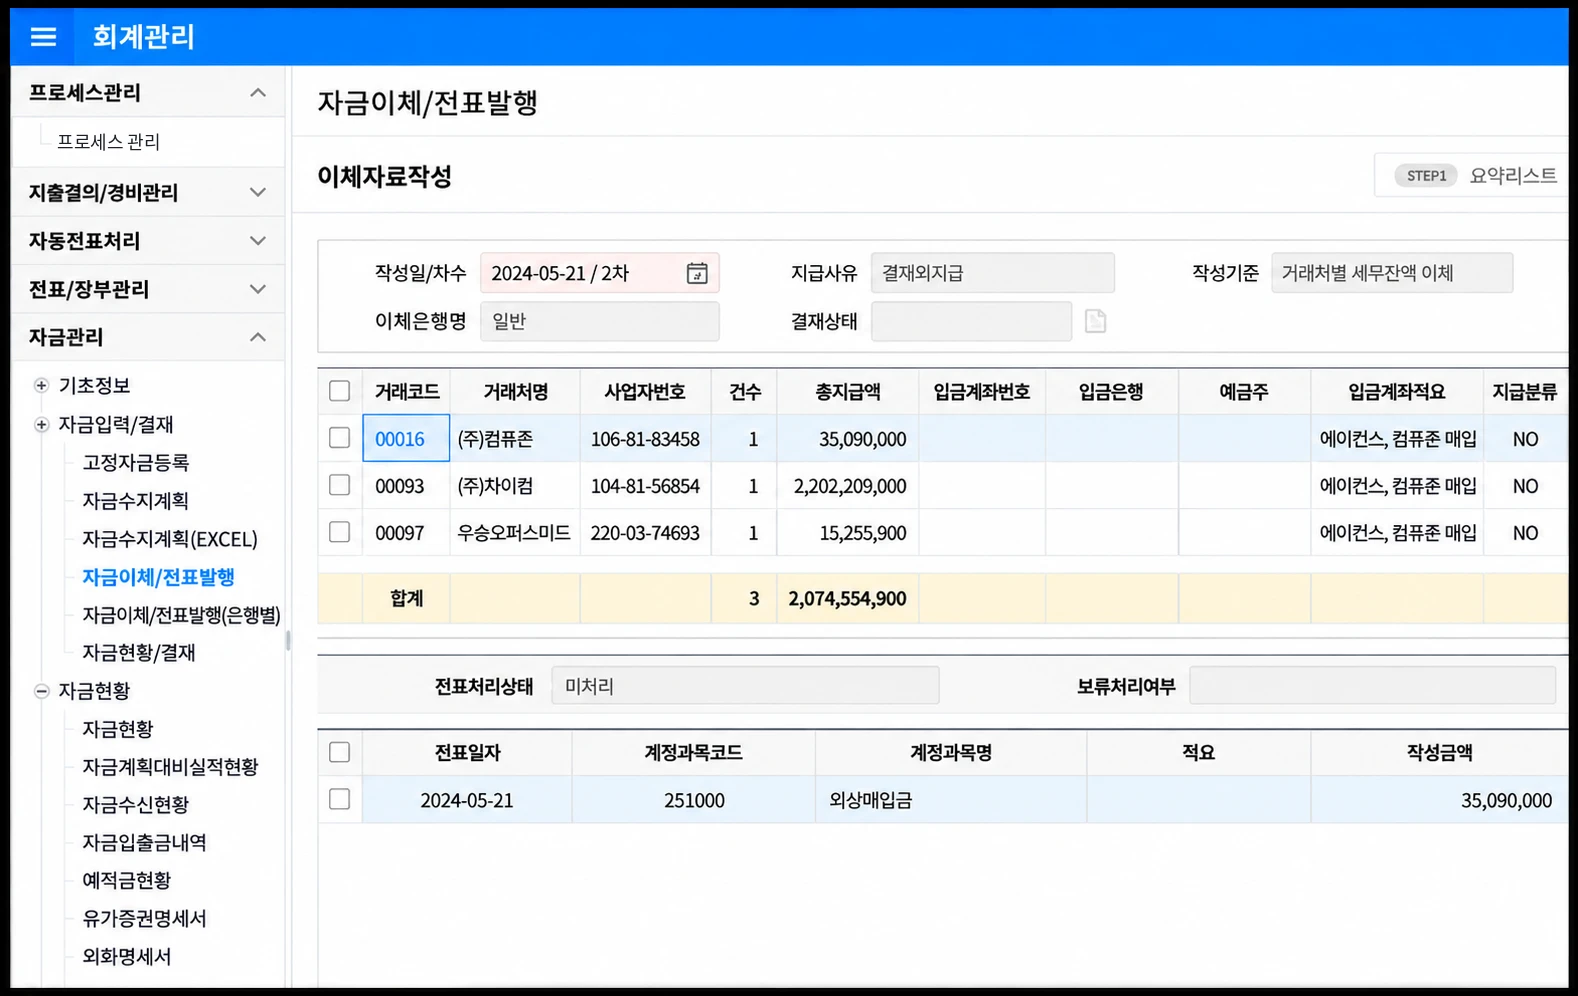
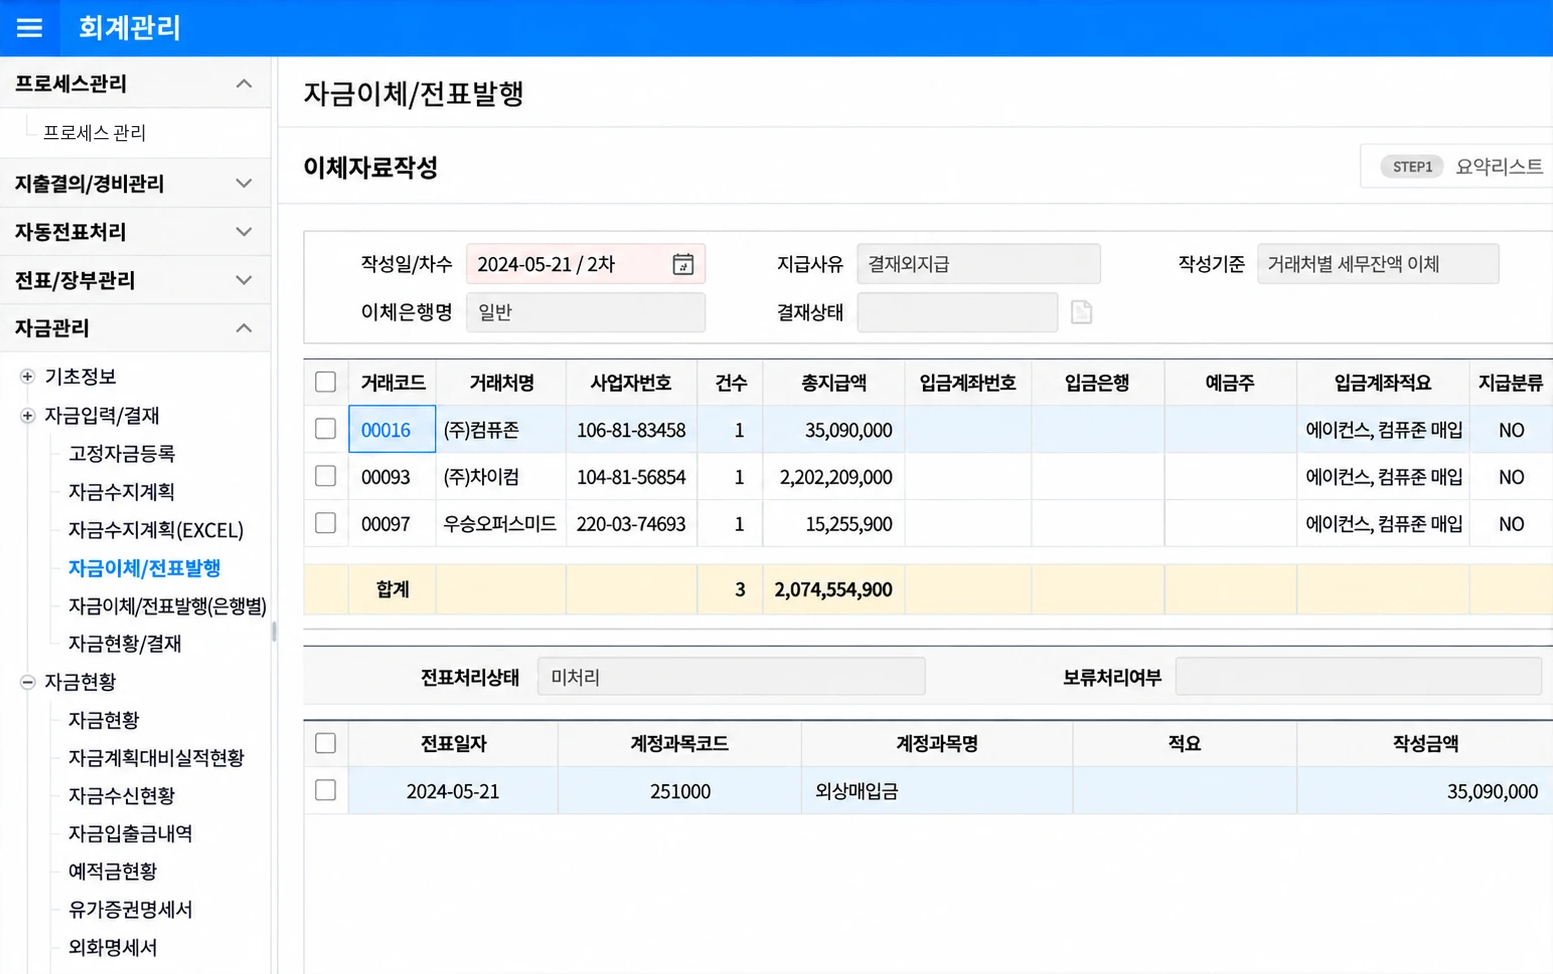
Trim the black frame baked into the 자금이체/전표발행 screenshot on 회계관리
The supplied image carried an 8-10px black border and a faint edge shadow; both are cropped off
(1578x996 -> 1553x974, saved as lossless WebP) and the version is bumped so browsers refetch it.

Claude-Session: https://claude.ai/code/session_01SPawHb8dbXAtWqwsG92Z1g

diff --git a/subpages/product/amaranth10/overview.html b/subpages/product/amaranth10/overview.html
@@ -127,7 +127,7 @@
                         더존 금융서비스입니다.
                     </p>
                 <div class="tag-row sb-area-tags" aria-label="금융서비스 연동 관련 키워드"><span class="tag">#금융서비스연동(CMS)</span></div></div>
-                <div class="img sb-feature-visual"><figure class="sb-unframed-screen" data-screen-presentation="unframed" style="--sb-screen-ratio:1.584337;--sb-preview-ratio:1.584337;--sb-preview-height:516px;--sb-preview-padding:0px" data-screen-content="complete" data-native-screen="source-078" data-native-review-id="113" data-quality-screen="user-supplied"><a class="sb-screen-zoom" href="../../../assets/subpages/user-supplied/amaranth-financial-services.webp?v=20261028-1" aria-label="Amaranth 10 금융서비스 연동 제품 화면 크게 보기"><img class="sb-flat-screen" loading="lazy" src="../../../assets/subpages/user-supplied/amaranth-financial-services.webp?v=20261028-1" alt="Amaranth 10 금융서비스 연동 제품 화면" width="1578" height="996" data-quality-id="source-078"></a></figure></div>
+                <div class="img sb-feature-visual"><figure class="sb-unframed-screen" data-screen-presentation="unframed" style="--sb-screen-ratio:1.594456;--sb-preview-ratio:1.594456;--sb-preview-height:516px;--sb-preview-padding:0px" data-screen-content="complete" data-native-screen="source-078" data-native-review-id="113" data-quality-screen="user-supplied"><a class="sb-screen-zoom" href="../../../assets/subpages/user-supplied/amaranth-financial-services.webp?v=20261028-2" aria-label="Amaranth 10 금융서비스 연동 제품 화면 크게 보기"><img class="sb-flat-screen" loading="lazy" src="../../../assets/subpages/user-supplied/amaranth-financial-services.webp?v=20261028-2" alt="Amaranth 10 금융서비스 연동 제품 화면" width="1553" height="974" data-quality-id="source-078"></a></figure></div>
             </div>
             <div class="overview08 sb-feature sb-design-row sb-centered-feature sb-zigzag-feature" data-layout="visual-left" data-screen-layout="visual-left">
                 <div class="cont_txt sb-feature-copy">
@@ -160,7 +160,7 @@
                         편성기능을 지원합니다.
                     </p>
                 <div class="tag-row sb-area-tags" aria-label="예산관리 관련 키워드"><span class="tag">#지출결의</span></div></div>
-                <div class="img sb-feature-visual"><figure class="sb-unframed-screen" data-screen-presentation="unframed" style="--sb-screen-ratio:1.590361;--sb-preview-ratio:1.590361;--sb-preview-height:516px;--sb-preview-padding:0px;--sb-native-width:660px" data-screen-content="complete" data-native-screen="source-081" data-native-review-id="115" data-quality-screen="verified-native"><a class="sb-screen-zoom" href="../../../assets/subpages/native-screens/budget.png?v=20261028-frameless-1" aria-label="Amaranth 10 예산관리 제품 화면 크게 보기"><img class="sb-flat-screen" loading="lazy" src="../../../assets/subpages/native-screens/budget.png?v=20261028-frameless-1" alt="Amaranth 10 예산관리 제품 화면" width="660" height="415" data-quality-source="assets/subpages/native-screens/budget.png" data-quality-id="source-081"></a></figure></div>
+                <div class="img sb-feature-visual"><figure class="sb-unframed-screen" data-screen-presentation="unframed" style="--sb-screen-ratio:1.590361;--sb-preview-ratio:1.590361;--sb-preview-height:516px;--sb-preview-padding:0px;--sb-native-width:660px" data-screen-content="complete" data-native-screen="source-081" data-native-review-id="115" data-quality-screen="verified-native"><a class="sb-screen-zoom" href="../../../assets/subpages/native-screens/budget.png" aria-label="Amaranth 10 예산관리 제품 화면 크게 보기"><img class="sb-flat-screen" loading="lazy" src="../../../assets/subpages/native-screens/budget.png" alt="Amaranth 10 예산관리 제품 화면" width="660" height="415" data-quality-source="assets/subpages/native-screens/budget.png" data-quality-id="source-081"></a></figure></div>
             </div>
         </div>
 	</div></main><footer><div class="footer-top"><div><a class="footer-brand" href="../../../index.html"><img src="../../../assets/ax-logo.png" alt="AX and More"><img src="../../../assets/logo.png" alt="DOUZONE 아이원소프트뱅크"></a><p>ERP · 그룹웨어 · 시스템 연동 · 맞춤 개발까지<br>비즈니스 환경에 최적화된 솔루션을 제공합니다.</p></div><div class="socials"><a href="https://cafe.naver.com/ionesoftbank" target="_blank" rel="noopener noreferrer"><img src="../../../assets/social-cafe.png" alt="카페"></a><a href="https://www.instagram.com/ione130501" target="_blank" rel="noopener noreferrer"><img src="../../../assets/social-instagram.png" alt="인스타그램"></a><a href="https://blog.naver.com/zhogksgjqm" target="_blank" rel="noopener noreferrer"><img src="../../../assets/social-blog.png" alt="블로그"></a><a href="http://pf.kakao.com/_xnFVzK" target="_blank" rel="noopener noreferrer"><img src="../../../assets/social-kakao.png" alt="카카오톡"></a><a href="https://youtube.com/@IONEsoftBK_official" target="_blank" rel="noopener noreferrer"><img src="../../../assets/social-youtube.png" alt="유튜브"></a></div></div><nav><button type="button" data-modal="privacy">개인정보 처리방침</button><button type="button" data-modal="terms">이용약관</button><a href="../../../subpages/company/location.html">오시는 길</a></nav><p>아이원소프트뱅크㈜ 대표 : 황명희 · 사업자등록번호 : 113-86-70956 · 통신판매신고번호 : 2017-서울구로-0617<br>주소 : 서울특별시 구로구 디지털로 285 에이스트윈타워 1차 405호<br>구매상담문의 : 1877-0256 · 고객센터 : 1877-1859 · iCUBE / G20 : 1877-0840 · 블루멤버십 : 1600-4208 · 테스트 계정 신청 : 070-4497-3388<br><br>COPYRIGHT © 2026 아이원소프트뱅크㈜. All rights reserved.</p></footer><section class="legal-modal" id="privacy-modal" aria-hidden="true" role="dialog" aria-modal="true" aria-labelledby="privacy-title"><div class="legal-dialog"><button class="modal-close" type="button" aria-label="닫기">×</button><h2 id="privacy-title">개인정보 처리방침</h2><div class="legal-scroll">문서를 불러오는 중입니다.</div></div></section><section class="legal-modal" id="terms-modal" aria-hidden="true" role="dialog" aria-modal="true" aria-labelledby="terms-title"><div class="legal-dialog"><button class="modal-close" type="button" aria-label="닫기">×</button><h2 id="terms-title">이용약관</h2><div class="legal-scroll">문서를 불러오는 중입니다.</div></div></section><dialog class="sb-preview-dialog"><p>공개 페이지 기반 미리보기입니다. 이 기능은 기존 사이트에서 이용할 수 있습니다.</p><a href="https://www.duzon119.co.kr/product/amaranth10/overview.asp">기존 페이지 열기 ↗</a><button type="button">닫기</button></dialog></div><script src="../../../app.js?v=20261028-1" defer=""></script></body></html>

diff --git a/subpages/product/nonprofit/intro.html b/subpages/product/nonprofit/intro.html
@@ -640,7 +640,7 @@
                         편성기능을 지원합니다.
                     </p>
                 <div class="tag-row sb-area-tags" aria-label="예산관리 관련 키워드"><span class="tag">#지출결의</span></div></div>
-                <div class="img sb-feature-visual"><figure class="sb-unframed-screen" data-screen-presentation="unframed" style="--sb-screen-ratio:1.590361;--sb-preview-ratio:1.590361;--sb-preview-height:516px;--sb-preview-padding:0px;--sb-native-width:660px" data-screen-content="complete" data-native-screen="source-081" data-native-review-id="94" data-quality-screen="verified-native"><a class="sb-screen-zoom" href="../../../assets/subpages/native-screens/budget.png?v=20261028-frameless-1" aria-label="Amaranth 10 예산관리 제품 화면 크게 보기"><img class="sb-flat-screen" loading="lazy" src="../../../assets/subpages/native-screens/budget.png?v=20261028-frameless-1" alt="Amaranth 10 예산관리 제품 화면" width="660" height="415" data-quality-source="assets/subpages/native-screens/budget.png" data-quality-id="source-081"></a></figure></div>
+                <div class="img sb-feature-visual"><figure class="sb-unframed-screen" data-screen-presentation="unframed" style="--sb-screen-ratio:1.590361;--sb-preview-ratio:1.590361;--sb-preview-height:516px;--sb-preview-padding:0px;--sb-native-width:660px" data-screen-content="complete" data-native-screen="source-081" data-native-review-id="94" data-quality-screen="verified-native"><a class="sb-screen-zoom" href="../../../assets/subpages/native-screens/budget.png" aria-label="Amaranth 10 예산관리 제품 화면 크게 보기"><img class="sb-flat-screen" loading="lazy" src="../../../assets/subpages/native-screens/budget.png" alt="Amaranth 10 예산관리 제품 화면" width="660" height="415" data-quality-source="assets/subpages/native-screens/budget.png" data-quality-id="source-081"></a></figure></div>
             </div>
         </div></section><section data-np-page="hr" hidden=""><div class="contWrap hr amaranth10 view-full">
             <div class="hr01 sb-feature sb-design-row sb-centered-feature sb-zigzag-feature" data-layout="visual-left" data-screen-layout="visual-right">
@@ -784,6 +784,6 @@
                         간편하게 Best-Practice를 참조할 수 있습니다.
                     </p>
                 </div>
-                <div class="img sb-feature-visual"><figure class="sb-unframed-screen" data-screen-presentation="unframed" style="--sb-screen-ratio:1.500000;--sb-preview-ratio:1.500000;--sb-preview-height:516px;--sb-preview-padding:0px" data-screen-content="complete" data-original-screen="assets/subpages/regenerated/ui-087.png" data-quality-screen="user-supplied"><a class="sb-screen-zoom" href="../../../assets/subpages/user-supplied/nonprofit-related-documents.png?v=20261028-1" aria-label="연관문서 제품 화면 크게 보기"><img class="sb-flat-screen" loading="lazy" src="../../../assets/subpages/user-supplied/nonprofit-related-documents.png?v=20261028-1" alt="연관문서 제품 화면" width="1536" height="1024"></a></figure></div>
+                <div class="img sb-feature-visual"><figure class="sb-unframed-screen" data-screen-presentation="unframed" style="--sb-screen-ratio:1.500000;--sb-preview-ratio:1.500000;--sb-preview-height:516px;--sb-preview-padding:0px" data-screen-content="complete" data-original-screen="assets/subpages/regenerated/ui-087.png" data-quality-screen="user-supplied"><a class="sb-screen-zoom" href="../../../assets/subpages/user-supplied/nonprofit-related-documents.png?v=20261028-2" aria-label="연관문서 제품 화면 크게 보기"><img class="sb-flat-screen" loading="lazy" src="../../../assets/subpages/user-supplied/nonprofit-related-documents.png?v=20261028-2" alt="연관문서 제품 화면" width="1536" height="1024"></a></figure></div>
             </div>
         </div></section></div></main><footer><div class="footer-top"><div><a class="footer-brand" href="../../../index.html"><img src="../../../assets/ax-logo.png" alt="AX and More"><img src="../../../assets/logo.png" alt="DOUZONE 아이원소프트뱅크"></a><p>ERP · 그룹웨어 · 시스템 연동 · 맞춤 개발까지<br>비즈니스 환경에 최적화된 솔루션을 제공합니다.</p></div><div class="socials"><a href="https://cafe.naver.com/ionesoftbank" target="_blank" rel="noopener noreferrer"><img src="../../../assets/social-cafe.png" alt="카페"></a><a href="https://www.instagram.com/ione130501" target="_blank" rel="noopener noreferrer"><img src="../../../assets/social-instagram.png" alt="인스타그램"></a><a href="https://blog.naver.com/zhogksgjqm" target="_blank" rel="noopener noreferrer"><img src="../../../assets/social-blog.png" alt="블로그"></a><a href="http://pf.kakao.com/_xnFVzK" target="_blank" rel="noopener noreferrer"><img src="../../../assets/social-kakao.png" alt="카카오톡"></a><a href="https://youtube.com/@IONEsoftBK_official" target="_blank" rel="noopener noreferrer"><img src="../../../assets/social-youtube.png" alt="유튜브"></a></div></div><nav><button type="button" data-modal="privacy">개인정보 처리방침</button><button type="button" data-modal="terms">이용약관</button><a href="../../../subpages/company/location.html">오시는 길</a></nav><p>아이원소프트뱅크㈜ 대표 : 황명희 · 사업자등록번호 : 113-86-70956 · 통신판매신고번호 : 2017-서울구로-0617<br>주소 : 서울특별시 구로구 디지털로 285 에이스트윈타워 1차 405호<br>구매상담문의 : 1877-0256 · 고객센터 : 1877-1859 · iCUBE / G20 : 1877-0840 · 블루멤버십 : 1600-4208 · 테스트 계정 신청 : 070-4497-3388<br><br>COPYRIGHT © 2026 아이원소프트뱅크㈜. All rights reserved.</p></footer><section class="legal-modal" id="privacy-modal" aria-hidden="true" role="dialog" aria-modal="true" aria-labelledby="privacy-title"><div class="legal-dialog"><button class="modal-close" type="button" aria-label="닫기">×</button><h2 id="privacy-title">개인정보 처리방침</h2><div class="legal-scroll">문서를 불러오는 중입니다.</div></div></section><section class="legal-modal" id="terms-modal" aria-hidden="true" role="dialog" aria-modal="true" aria-labelledby="terms-title"><div class="legal-dialog"><button class="modal-close" type="button" aria-label="닫기">×</button><h2 id="terms-title">이용약관</h2><div class="legal-scroll">문서를 불러오는 중입니다.</div></div></section><dialog class="sb-preview-dialog"><p>공개 페이지 기반 미리보기입니다. 이 기능은 기존 사이트에서 이용할 수 있습니다.</p><a href="https://www.duzon119.co.kr/product/nonprofit/intro.asp">기존 페이지 열기 ↗</a><button type="button">닫기</button></dialog></div><script src="../../../app.js?v=20261028-1" defer=""></script></body></html>

diff --git a/subpages/product/wehago/smart_A10.html b/subpages/product/wehago/smart_A10.html
@@ -217,7 +217,7 @@
                 </li>
                 <li>
                     <div class="inner sb-design-row sb-centered-feature sb-zigzag-feature" data-layout="visual-right" data-screen-layout="visual-right">
-                        <div class="img sb-feature-visual"><div class="sb-generated-panel"><figure class="sb-unframed-screen sb-clarity-restored" data-screen-presentation="unframed" style="--sb-screen-ratio:1.333333;--sb-preview-ratio:1.333333;--sb-preview-height:516px;--sb-preview-padding:0px" data-screen-content="complete" data-native-screen="source-004" data-native-review-id="4" data-quality-screen="user-supplied"><a class="sb-screen-zoom" href="../../../assets/subpages/user-supplied/wehago-flexible-work.webp?v=20261028-1" aria-label="WEHAGO 유연한 근무환경 제공 실제 제품 화면 크게 보기"><img class="sb-flat-screen" loading="lazy" src="../../../assets/subpages/user-supplied/wehago-flexible-work.webp?v=20261028-1" alt="WEHAGO 유연한 근무환경 제공 실제 제품 화면" width="1448" height="1086" data-quality-id="screen-150"></a></figure></div></div>
+                        <div class="img sb-feature-visual"><div class="sb-generated-panel"><figure class="sb-unframed-screen sb-clarity-restored" data-screen-presentation="unframed" style="--sb-screen-ratio:1.333333;--sb-preview-ratio:1.333333;--sb-preview-height:516px;--sb-preview-padding:0px" data-screen-content="complete" data-native-screen="source-004" data-native-review-id="4" data-quality-screen="user-supplied"><a class="sb-screen-zoom" href="../../../assets/subpages/user-supplied/wehago-flexible-work.webp?v=20261028-2" aria-label="WEHAGO 유연한 근무환경 제공 실제 제품 화면 크게 보기"><img class="sb-flat-screen" loading="lazy" src="../../../assets/subpages/user-supplied/wehago-flexible-work.webp?v=20261028-2" alt="WEHAGO 유연한 근무환경 제공 실제 제품 화면" width="1448" height="1086" data-quality-id="screen-150"></a></figure></div></div>
                         <div class="txt sb-feature-copy">
                             <strong>유연한 근무환경 제공</strong>
                             <p>

diff --git a/subpages/product/oneai.html b/subpages/product/oneai.html
@@ -64,7 +64,7 @@
 					<div class="flex flex-col lg:flex-row-reverse items-center gap-10 lg:gap-16">
 						<div class="w-full lg:w-1/2 sb-ai-visual">
 							<div class="relative rounded-xl overflow-hidden shadow-md bg-gray-50 w-fit mx-auto">
-								<div class="sb-generated-panel"><figure class="sb-faithful-reference" style="--sb-screen-ratio:1.250814" data-quality-screen="user-supplied"><a class="sb-screen-zoom" href="../../assets/subpages/user-supplied/oneai-usability.png?v=20261028-1" aria-label="사용성 크게 보기"><picture class="sb-frontal-picture"><img src="../../assets/subpages/user-supplied/oneai-usability.png?v=20261028-1" alt="사용성" class="sb-ai-diagram sb-frontal-screen" loading="lazy" width="768" height="614"></picture></a></figure></div>
+								<div class="sb-generated-panel"><figure class="sb-faithful-reference" style="--sb-screen-ratio:1.250814" data-quality-screen="user-supplied"><a class="sb-screen-zoom" href="../../assets/subpages/user-supplied/oneai-usability.png?v=20261028-2" aria-label="사용성 크게 보기"><picture class="sb-frontal-picture"><img src="../../assets/subpages/user-supplied/oneai-usability.png?v=20261028-2" alt="사용성" class="sb-ai-diagram sb-frontal-screen" loading="lazy" width="768" height="614"></picture></a></figure></div>
 							</div>
 						</div>
 						<div class="w-full lg:w-1/2 sb-ai-copy">
